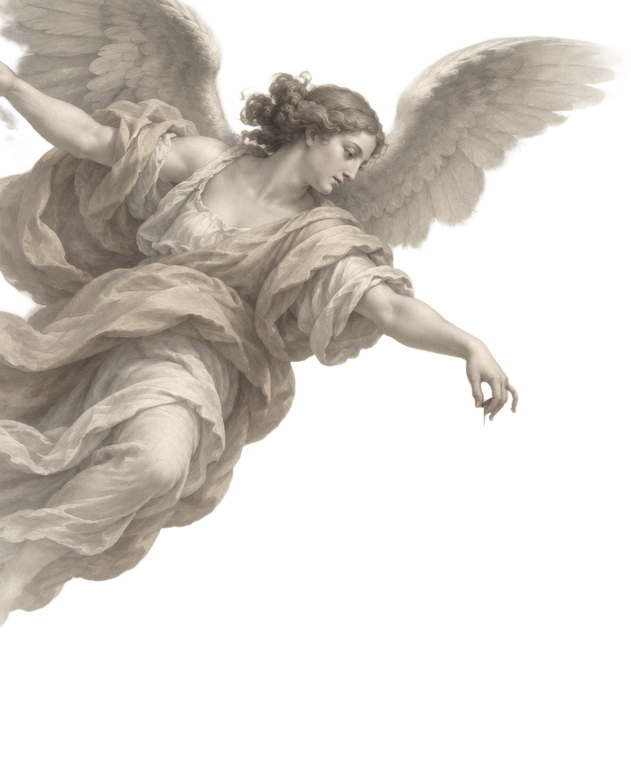
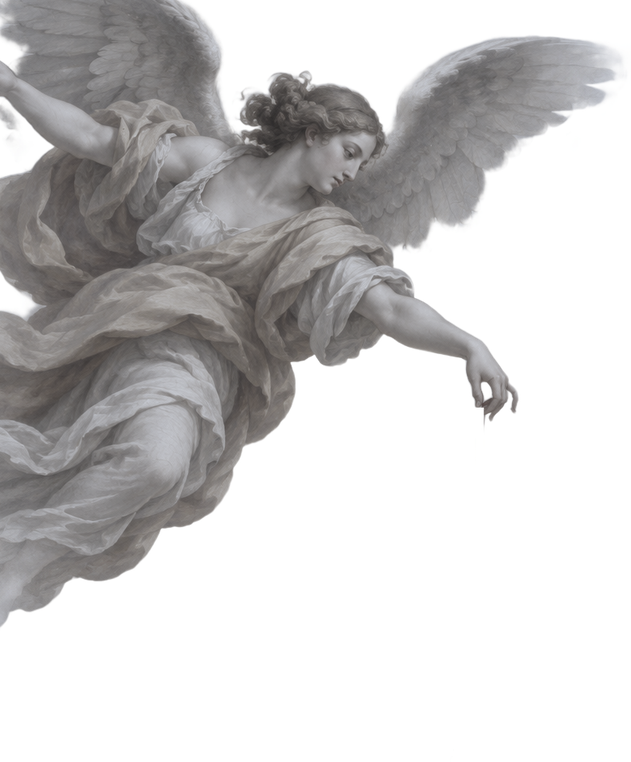
Night landing with white text; landing text part of the painting layer
- The landing text lives in the painting layer, so the opening frame
  uncovers it in place instead of fading it in.
- Night grade for the aerial landscape (motion/make_night.py), moonlit
  mist and a slightly dimmed angel; the lantern is the warm light.
- Landing text is white with a dark haze for contrast; "before" takes
  the lantern's amber.
- Opening top bar: Apply is now Contact.

Claude-Session: https://claude.ai/code/session_01VMC75dovcyg8xHeWok5tKD

diff --git a/assets/hero-motion.js b/assets/hero-motion.js
@@ -1,1 +1,1 @@
-"use strict";(()=>{var x={W:1960,H:1225,pivot:[479.64772727272725,402.4636363636364],lanternCenter:[479.64772727272725,564.1715909090909],lanternR:86.03181818181818,angelBox:[0,0,631,762],lanternBox:[393,402,566,769]};var J=60,k=3.5,u=8,S=x.W,N=x.H,R={x:x.pivot[0],y:x.pivot[1]},c={x:x.lanternCenter[0],y:x.lanternCenter[1],r:x.lanternR},[F,H,K,Q]=x.angelBox,[B,G,Z,tt]=x.lanternBox,j=Math.PI*2,q=36,O=5,p=(t,n,a=0)=>Math.sin(j*t/n+a),_=t=>(t%1+1)%1,C=t=>Math.min(1,Math.max(0,t)),nt=t=>t,et=t=>t<.5?2*t*t:1-Math.pow(-2*t+2,2)/2,rt=t=>t<.5?4*t*t*t:1-Math.pow(-2*t+2,3)/2,ot=(t,n,a,r)=>{let o=3*t,y=3*(a-t)-o,E=1-o-y,f=3*n,d=3*(r-n)-f,b=1-f-d,$=m=>((E*m+y)*m+o)*m;return m=>{let i=m;for(let e=0;e<8;e++){let g=(3*E*i+2*y)*i+o;if(Math.abs(g)<1e-6)break;i-=($(i)-m)/g}return i=C(i),((b*i+d)*i+f)*i}},W=ot(.16,1,.3,1),v=(t,n,a,r=nt)=>{if(t<=n[0])return a[0];for(let o=1;o<n.length;o++)if(t<=n[o])return a[o-1]+(a[o]-a[o-1])*r((t-n[o-1])/(n[o]-n[o-1]));return a[a.length-1]},T=t=>{let n=2166136261;for(let a=0;a<t.length;a++)n=Math.imul(n^t.charCodeAt(a),16777619);return n=Math.imul(n^n>>>15,2246822507),n=Math.imul(n^n>>>13,3266489909),((n^n>>>16)>>>0)/4294967296},at=t=>{let n=8+T(`s${t}`)*16;return{id:`mote${t}`,src:"mote.png",x:0,y:0,w:n,h:n}},z=[{id:"sky",src:"sky.jpg",x:0,y:0,w:S,h:N,origin:`${S*.3}px ${N*.4}px`},{id:"angelGroup",x:0,y:0,w:S,h:N,origin:"300px 380px",children:[{id:"angel",src:"angel.png",x:F,y:H,w:K-F,h:Q-H},{id:"swing",x:0,y:0,w:S,h:N,origin:`${R.x}px ${R.y}px`,children:[{id:"glowOuter",src:"glow.png",x:c.x-c.r*3.6,y:c.y-c.r*3.6,w:c.r*7.2,h:c.r*7.2},{id:"lantern",src:"lantern.png",x:B,y:G,w:Z-B,h:tt-G},{id:"glowInner",src:"glow.png",x:c.x-c.r*1.1,y:c.y-c.r,w:c.r*2.2,h:c.r*2.2}]}]},{id:"rays",src:"rays.png",x:-220,y:-280,w:1700,h:1700,origin:"0 0"},...Array.from({length:q},(t,n)=>at(n)),...Array.from({length:O},(t,n)=>({id:`mist${n}`,src:"mist.png",x:0,y:0,w:1200,h:420})),{id:"curtainL",src:"mist.png",x:0,y:0,w:2400,h:1400},{id:"curtainR",src:"mist.png",x:0,y:0,w:2400,h:1400}],X=["sky.jpg","angel.png","glow.png","lantern.png","rays.png","mote.png","mist.png"],st={enter:1,ignite:1,extraSwing:0,skyScale:1,rays:1,curtain:0},it=t=>{let n=Math.min(1,t/(k-1/J));return{enter:v(t,[.15,2.8],[0,1],W),ignite:v(t,[1.9,2.4,3.4],[0,1.45,1],et),extraSwing:15*Math.pow(1-n,2)*Math.sin(n*Math.PI*4),skyScale:v(t,[0,3.5],[1.1,1],W),rays:v(t,[1.2,3.2],[0,1]),curtain:v(t,[0,1.8],[1,0],rt)}},Y=(t,n)=>{let a=t<k?it(t):st,r=t<k?t-k:(t-k)%u,{enter:o,ignite:y,extraSwing:E,skyScale:f,rays:d,curtain:b}=a,$=n===void 0?Math.min(y,1):C(n),m=16*p(r,u),i=8*p(r,u,Math.PI/2),e=.8*p(r,u,Math.PI/3),g=5*p(r,u/2,-.6)+.8*p(r,u/4,.9)+E,l=.78+.14*p(r,2)+.05*p(r,.5,1.3)+.04*p(r,1,.4),h=n===void 0?y>1?y-1:0:.5*Math.max(0,Math.sin(Math.PI*C((n-.55)/.45))),I=-160*(1-o),P=-560*(1-o),M={sky:{transform:`translate3d(${6*p(r,u)}px,${-3*p(r,u,1)}px,0) scale(${f})`,opacity:1},angelGroup:{transform:`translate3d(${I+i}px,${P+m}px,0) rotate(${e}deg)`,opacity:Math.min(1,o*1.6)},swing:{transform:`rotate(${g}deg)`,opacity:1},glowOuter:{transform:`scale(${1+.07*p(r,2)+h*.5})`,opacity:Math.min(1,l*$+h)},glowInner:{transform:"none",opacity:Math.max(0,(l-.2)*$)},rays:{transform:`rotate(${3*p(r,u,2)}deg)`,opacity:(.42+.16*p(r,u/2,.8))*d}};for(let s=0;s<q;s++){let w=_(r/u+T(`p${s}`)),L=c.x+i+(T(`x${s}`)-.5)*340+22*Math.sin(j*(w*2+T(`w${s}`))),U=c.y+m+120-w*(380+T(`h${s}`)*260);M[`mote${s}`]={transform:`translate3d(${L}px,${U}px,0)`,opacity:Math.sin(Math.PI*w)*(.45+T(`o${s}`)*.55)*$}}for(let s=0;s<O;s++){let w=_(r/u+s/O),L=-400+s*440+w*300*(s%2?-1:1);M[`mist${s}`]={transform:`translate3d(${L}px,${N-420+s%3*50}px,0)`,opacity:.75*Math.sin(Math.PI*w)}}return M.curtainL={transform:`translate3d(${-700-(1-b)*900}px,-60px,0)`,opacity:b},M.curtainR={transform:`translate3d(${260+(1-b)*900}px,-60px,0)`,opacity:b},M};var A=document.getElementById("hero-player"),ct="assets/motion/",D=t=>ct+t.replace(/\.png$/,".webp");if(A){let t=document.createElement("div");t.style.cssText=`position:absolute;left:0;top:0;width:${S}px;height:${N}px;transform-origin:0 0;background:#dfeaf4;overflow:hidden;contain:strict`;let n=new Map,a=new Map,r=(e,g)=>{var h;let l=e.src?Object.assign(document.createElement("img"),{src:D(e.src),alt:"",decoding:"async",draggable:!1}):document.createElement("div");l.style.cssText=`position:absolute;left:${e.x}px;top:${e.y}px;width:${e.w}px;height:${e.h}px;will-change:transform,opacity;`+(e.origin?`transform-origin:${e.origin};`:""),g.appendChild(l),n.set(e.id,l),(h=e.children)==null||h.forEach(I=>r(I,l))};z.forEach(e=>r(e,t)),A.appendChild(t);let o=()=>{t.style.transform=`scale(${A.clientWidth/S})`};new ResizeObserver(o).observe(A),o();let y=e=>{let g=window.LANTERN_LIGHT,l=Y(e,typeof g=="number"?g:void 0);for(let h in l){let I=n.get(h);if(!I)continue;let{transform:P,opacity:M}=l[h],s=M<.002?"0":M.toFixed(3),w=P+"|"+s;a.get(h)!==w&&(a.set(h,w),I.style.transform=P,I.style.opacity=s)}},E=0,f=0,d=0,b=!0,$=e=>{E+=Math.min(.1,(e-f)/1e3),f=e,y(E),d=requestAnimationFrame($)},m=()=>{let e=b&&!document.hidden;e&&!d&&(f=performance.now(),d=requestAnimationFrame($)),!e&&d&&(cancelAnimationFrame(d),d=0)};y(0);let i=X.map(e=>new Promise(g=>{let l=new Image;l.src=D(e),l.decode().then(()=>g(),()=>g())}));Promise.all(i).then(()=>{document.documentElement.classList.add("player-on"),new IntersectionObserver(e=>{b=e[0].isIntersecting,m()}).observe(A),document.addEventListener("visibilitychange",m),m()})}})();
+"use strict";(()=>{var x={W:1960,H:1225,pivot:[479.64772727272725,402.4636363636364],lanternCenter:[479.64772727272725,564.1715909090909],lanternR:86.03181818181818,angelBox:[0,0,631,762],lanternBox:[393,402,566,769]};var J=60,k=3.5,u=8,S=x.W,N=x.H,R={x:x.pivot[0],y:x.pivot[1]},c={x:x.lanternCenter[0],y:x.lanternCenter[1],r:x.lanternR},[F,H,K,Q]=x.angelBox,[B,G,Z,tt]=x.lanternBox,j=Math.PI*2,q=36,O=5,p=(t,n,a=0)=>Math.sin(j*t/n+a),_=t=>(t%1+1)%1,C=t=>Math.min(1,Math.max(0,t)),nt=t=>t,et=t=>t<.5?2*t*t:1-Math.pow(-2*t+2,2)/2,rt=t=>t<.5?4*t*t*t:1-Math.pow(-2*t+2,3)/2,ot=(t,n,a,r)=>{let o=3*t,d=3*(a-t)-o,E=1-o-d,f=3*n,y=3*(r-n)-f,b=1-f-y,$=m=>((E*m+d)*m+o)*m;return m=>{let i=m;for(let e=0;e<8;e++){let g=(3*E*i+2*d)*i+o;if(Math.abs(g)<1e-6)break;i-=($(i)-m)/g}return i=C(i),((b*i+y)*i+f)*i}},W=ot(.16,1,.3,1),v=(t,n,a,r=nt)=>{if(t<=n[0])return a[0];for(let o=1;o<n.length;o++)if(t<=n[o])return a[o-1]+(a[o]-a[o-1])*r((t-n[o-1])/(n[o]-n[o-1]));return a[a.length-1]},T=t=>{let n=2166136261;for(let a=0;a<t.length;a++)n=Math.imul(n^t.charCodeAt(a),16777619);return n=Math.imul(n^n>>>15,2246822507),n=Math.imul(n^n>>>13,3266489909),((n^n>>>16)>>>0)/4294967296},at=t=>{let n=8+T(`s${t}`)*16;return{id:`mote${t}`,src:"mote.png",x:0,y:0,w:n,h:n}},z=[{id:"sky",src:"sky.jpg",x:0,y:0,w:S,h:N,origin:`${S*.3}px ${N*.4}px`},{id:"angelGroup",x:0,y:0,w:S,h:N,origin:"300px 380px",children:[{id:"angel",src:"angel.png",x:F,y:H,w:K-F,h:Q-H},{id:"swing",x:0,y:0,w:S,h:N,origin:`${R.x}px ${R.y}px`,children:[{id:"glowOuter",src:"glow.png",x:c.x-c.r*3.6,y:c.y-c.r*3.6,w:c.r*7.2,h:c.r*7.2},{id:"lantern",src:"lantern.png",x:B,y:G,w:Z-B,h:tt-G},{id:"glowInner",src:"glow.png",x:c.x-c.r*1.1,y:c.y-c.r,w:c.r*2.2,h:c.r*2.2}]}]},{id:"rays",src:"rays.png",x:-220,y:-280,w:1700,h:1700,origin:"0 0"},...Array.from({length:q},(t,n)=>at(n)),...Array.from({length:O},(t,n)=>({id:`mist${n}`,src:"mist.png",x:0,y:0,w:1200,h:420})),{id:"curtainL",src:"mist.png",x:0,y:0,w:2400,h:1400},{id:"curtainR",src:"mist.png",x:0,y:0,w:2400,h:1400}],X=["sky.jpg","angel.png","glow.png","lantern.png","rays.png","mote.png","mist.png"],st={enter:1,ignite:1,extraSwing:0,skyScale:1,rays:1,curtain:0},it=t=>{let n=Math.min(1,t/(k-1/J));return{enter:v(t,[.15,2.8],[0,1],W),ignite:v(t,[1.9,2.4,3.4],[0,1.45,1],et),extraSwing:15*Math.pow(1-n,2)*Math.sin(n*Math.PI*4),skyScale:v(t,[0,3.5],[1.1,1],W),rays:v(t,[1.2,3.2],[0,1]),curtain:v(t,[0,1.8],[1,0],rt)}},Y=(t,n)=>{let a=t<k?it(t):st,r=t<k?t-k:(t-k)%u,{enter:o,ignite:d,extraSwing:E,skyScale:f,rays:y,curtain:b}=a,$=n===void 0?Math.min(d,1):C(n),m=16*p(r,u),i=8*p(r,u,Math.PI/2),e=.8*p(r,u,Math.PI/3),g=5*p(r,u/2,-.6)+.8*p(r,u/4,.9)+E,l=.78+.14*p(r,2)+.05*p(r,.5,1.3)+.04*p(r,1,.4),h=n===void 0?d>1?d-1:0:.5*Math.max(0,Math.sin(Math.PI*C((n-.55)/.45))),I=-160*(1-o),P=-560*(1-o),M={sky:{transform:`translate3d(${6*p(r,u)}px,${-3*p(r,u,1)}px,0) scale(${f})`,opacity:1},angelGroup:{transform:`translate3d(${I+i}px,${P+m}px,0) rotate(${e}deg)`,opacity:Math.min(1,o*1.6)},swing:{transform:`rotate(${g}deg)`,opacity:1},glowOuter:{transform:`scale(${1+.07*p(r,2)+h*.5})`,opacity:Math.min(1,l*$+h)},glowInner:{transform:"none",opacity:Math.max(0,(l-.2)*$)},rays:{transform:`rotate(${3*p(r,u,2)}deg)`,opacity:(.42+.16*p(r,u/2,.8))*y}};for(let s=0;s<q;s++){let w=_(r/u+T(`p${s}`)),L=c.x+i+(T(`x${s}`)-.5)*340+22*Math.sin(j*(w*2+T(`w${s}`))),U=c.y+m+120-w*(380+T(`h${s}`)*260);M[`mote${s}`]={transform:`translate3d(${L}px,${U}px,0)`,opacity:Math.sin(Math.PI*w)*(.45+T(`o${s}`)*.55)*$}}for(let s=0;s<O;s++){let w=_(r/u+s/O),L=-400+s*440+w*300*(s%2?-1:1);M[`mist${s}`]={transform:`translate3d(${L}px,${N-420+s%3*50}px,0)`,opacity:.75*Math.sin(Math.PI*w)}}return M.curtainL={transform:`translate3d(${-700-(1-b)*900}px,-60px,0)`,opacity:b},M.curtainR={transform:`translate3d(${260+(1-b)*900}px,-60px,0)`,opacity:b},M};var A=document.getElementById("hero-player"),ct="assets/motion/",D=t=>ct+t.replace(/\.png$/,".webp");if(A){let t=document.createElement("div");t.style.cssText=`position:absolute;left:0;top:0;width:${S}px;height:${N}px;transform-origin:0 0;background:#1b2840;overflow:hidden;contain:strict`;let n=new Map,a=new Map,r=(e,g)=>{var h;let l=e.src?Object.assign(document.createElement("img"),{src:D(e.src),alt:"",decoding:"async",draggable:!1}):document.createElement("div");l.style.cssText=`position:absolute;left:${e.x}px;top:${e.y}px;width:${e.w}px;height:${e.h}px;will-change:transform,opacity;`+(e.origin?`transform-origin:${e.origin};`:""),g.appendChild(l),n.set(e.id,l),(h=e.children)==null||h.forEach(I=>r(I,l))};z.forEach(e=>r(e,t)),A.appendChild(t);let o=()=>{t.style.transform=`scale(${A.clientWidth/S})`};new ResizeObserver(o).observe(A),o();let d=e=>{let g=window.LANTERN_LIGHT,l=Y(e,typeof g=="number"?g:void 0);for(let h in l){let I=n.get(h);if(!I)continue;let{transform:P,opacity:M}=l[h],s=M<.002?"0":M.toFixed(3),w=P+"|"+s;a.get(h)!==w&&(a.set(h,w),I.style.transform=P,I.style.opacity=s)}},E=0,f=0,y=0,b=!0,$=e=>{E+=Math.min(.1,(e-f)/1e3),f=e,d(E),y=requestAnimationFrame($)},m=()=>{let e=b&&!document.hidden;e&&!y&&(f=performance.now(),y=requestAnimationFrame($)),!e&&y&&(cancelAnimationFrame(y),y=0)};d(0);let i=X.map(e=>new Promise(g=>{let l=new Image;l.src=D(e),l.decode().then(()=>g(),()=>g())}));Promise.all(i).then(()=>{document.documentElement.classList.add("player-on"),new IntersectionObserver(e=>{b=e[0].isIntersecting,m()}).observe(A),document.addEventListener("visibilitychange",m),m()})}})();

diff --git a/index.html b/index.html
@@ -75,7 +75,7 @@ em.s { font-family: var(--serif); font-style: italic; font-weight: 400; letter-s
 
 /* ---------- Hero: the painting fills the first screen, then the clouds fade into white ---------- */
 .hero { position: relative; isolation: isolate; overflow: hidden; min-height: max(100svh, 640px); display: grid; grid-template-rows: auto 1fr auto; }
-.hero-bg { position: absolute; inset: 0; z-index: -1; container-type: size; background: #dfeaf4; }
+.hero-bg { position: absolute; inset: 0; z-index: -1; container-type: size; background: #1b2840; }
 /* The animation is 16:10; sized like object-fit: cover and anchored left, so the angel stays in view. */
 .hero-box { position: absolute; left: 0; width: max(100cqw, 160cqh); aspect-ratio: 16 / 10; max-width: none; top: calc((100cqh - max(100cqw, 160cqh) / 1.6) * .42); }
 .hero-box > * { position: absolute; inset: 0; width: 100%; height: 100%; max-width: none; }
@@ -88,8 +88,8 @@ em.s { font-family: var(--serif); font-style: italic; font-weight: 400; letter-s
   position: absolute; inset: 0; pointer-events: none;
   content: ""; position: absolute; inset: 0;
   background:
-    radial-gradient(ellipse 34% 30% at 58% 48%, rgba(255,255,255,.5), rgba(255,255,255,0) 100%),
-    linear-gradient(to bottom, rgba(255,255,255,0) 80%, rgba(255,255,255,.4) 100%);
+    radial-gradient(ellipse 36% 32% at 58% 48%, rgba(8,14,30,.42), rgba(8,14,30,0) 100%),
+    linear-gradient(to bottom, rgba(8,14,30,.25) 0%, rgba(8,14,30,0) 18%, rgba(8,14,30,0) 78%, rgba(8,14,30,.45) 100%);
 }
 
 .hero-mark { display: grid; justify-items: center; gap: 8px; padding-top: max(28px, env(safe-area-inset-top, 0px)); text-align: center; text-decoration: none; }
@@ -165,18 +165,17 @@ form.signup { display: flex; width: min(460px, 100%); padding: 0; gap: 0; backgr
 }
 
 /* landing text: arrives once the frame has opened */
-.hero.motion:not(.open) .hero-mark, .hero.motion:not(.open) .hero-main > *, .hero.motion:not(.open) .hero-foot > * { opacity: 0; transform: translateY(16px); pointer-events: none; }
-.hero.motion .hero-mark, .hero.motion .hero-main > *, .hero.motion .hero-foot > * { transition: opacity .9s cubic-bezier(.2,.7,.2,1), transform .9s cubic-bezier(.2,.7,.2,1); }
-.hero.motion .hero-main > :nth-child(1) { transition-delay: .1s; }
-.hero.motion .hero-main > :nth-child(2) { transition-delay: .25s; }
-.hero.motion .hero-main > :nth-child(3) { transition-delay: .3s; }
-.hero.motion .hero-main > :nth-child(4) { transition-delay: .4s; }
-.hero.motion .hero-foot > * { transition-delay: .55s; }
+/* landing text lives in the painting layer: the opening frame uncovers it in place */
+.hero-layer { position: absolute; inset: 0; display: grid; grid-template-rows: auto 1fr auto; will-change: transform; color: #F6F1E7; text-shadow: 0 1px 18px rgba(5,10,24,.35); }
+.hero-layer a { color: inherit; }
+.hero-layer .hero-rule { background: #F6F1E7; }
+.hero-layer .scroll-cue::after { background: linear-gradient(#F6F1E7, transparent); }
+.hero-layer h1 em.s { color: #F2B36A; }
 @keyframes rise { from { opacity: 0; transform: translateY(16px); filter: blur(6px); } to { opacity: 1; transform: none; filter: none; } }
 
 @media (max-width: 899px) {
   .hero-box { width: max(230cqw, 160cqh); left: -14cqw; top: 0; }
-  .hero-tint { background: linear-gradient(to bottom, rgba(255,255,255,0) 38%, rgba(255,255,255,.55) 58%, rgba(255,255,255,.62) 100%); }
+  .hero-tint { background: linear-gradient(to bottom, rgba(8,14,30,.2) 0%, rgba(8,14,30,0) 20%, rgba(8,14,30,0) 40%, rgba(8,14,30,.5) 60%, rgba(8,14,30,.6) 100%); }
   .hero-main { place-content: end center; padding-block: 44svh 24px; }
   .hero-foot { grid-template-columns: 1fr; justify-items: center; }
   .hero-foot .l, .hero-foot .r { display: none; }
@@ -316,13 +315,28 @@ input:focus, textarea:focus { outline: none; border-color: var(--ink); }
 <main id="top">
   <div class="stage">
   <section class="hero" aria-labelledby="hero-title">
-    <div class="hero-bg" aria-hidden="true">
-      <div class="hero-box">
+    <div class="hero-bg">
+      <div class="hero-box" aria-hidden="true">
         <img class="hero-poster" src="assets/motion/sky.jpg" width="1960" height="1225" alt="">
         <img class="hero-still" src="assets/angel-hero.jpg" width="1920" height="1200" alt="">
         <div class="hero-player" id="hero-player"></div>
       </div>
-      <div class="hero-tint"></div>
+      <div class="hero-tint" aria-hidden="true"></div>
+      <div class="hero-layer">
+        <a class="hero-mark wrap" href="#top" aria-label="Lantern Ventures, Fund 00"><b>LANTERN</b><span>Ventures · Fund 00</span></a>
+
+        <div class="hero-main wrap">
+          <h1 id="hero-title">We back founders <em class="s">before</em> anyone else is looking.</h1>
+          <span class="hero-rule" aria-hidden="true"></span>
+          <p class="hero-meta">Pre-seed · Student-run · 11 cities</p>
+        </div>
+
+        <div class="hero-foot wrap">
+          <span class="l">Boston · New York · London · Pittsburgh · Hong Kong</span>
+          <a class="scroll-cue" href="#connect">Scroll</a>
+          <span class="r">Fig. I &nbsp;<i>The Lantern Bearer</i></span>
+        </div>
+      </div>
     </div>
 
     <div class="portal" aria-hidden="true">
@@ -355,26 +369,13 @@ input:focus, textarea:focus { outline: none; border-color: var(--ink); }
       <svg class="portal-rays" viewBox="0 0 100 100"><line x1="50" y1="0" x2="50" y2="9" transform="rotate(0 50 50)"></line><line x1="50" y1="0" x2="50" y2="9" transform="rotate(15 50 50)"></line><line x1="50" y1="0" x2="50" y2="9" transform="rotate(30 50 50)"></line><line x1="50" y1="0" x2="50" y2="9" transform="rotate(45 50 50)"></line><line x1="50" y1="0" x2="50" y2="9" transform="rotate(60 50 50)"></line><line x1="50" y1="0" x2="50" y2="9" transform="rotate(75 50 50)"></line><line x1="50" y1="0" x2="50" y2="9" transform="rotate(90 50 50)"></line><line x1="50" y1="0" x2="50" y2="9" transform="rotate(105 50 50)"></line><line x1="50" y1="0" x2="50" y2="9" transform="rotate(120 50 50)"></line><line x1="50" y1="0" x2="50" y2="9" transform="rotate(135 50 50)"></line><line x1="50" y1="0" x2="50" y2="9" transform="rotate(150 50 50)"></line><line x1="50" y1="0" x2="50" y2="9" transform="rotate(165 50 50)"></line><line x1="50" y1="0" x2="50" y2="9" transform="rotate(180 50 50)"></line><line x1="50" y1="0" x2="50" y2="9" transform="rotate(195 50 50)"></line><line x1="50" y1="0" x2="50" y2="9" transform="rotate(210 50 50)"></line><line x1="50" y1="0" x2="50" y2="9" transform="rotate(225 50 50)"></line><line x1="50" y1="0" x2="50" y2="9" transform="rotate(240 50 50)"></line><line x1="50" y1="0" x2="50" y2="9" transform="rotate(255 50 50)"></line><line x1="50" y1="0" x2="50" y2="9" transform="rotate(270 50 50)"></line><line x1="50" y1="0" x2="50" y2="9" transform="rotate(285 50 50)"></line><line x1="50" y1="0" x2="50" y2="9" transform="rotate(300 50 50)"></line><line x1="50" y1="0" x2="50" y2="9" transform="rotate(315 50 50)"></line><line x1="50" y1="0" x2="50" y2="9" transform="rotate(330 50 50)"></line><line x1="50" y1="0" x2="50" y2="9" transform="rotate(345 50 50)"></line></svg>
       <i class="portal-edge h"></i><i class="portal-edge h"></i><i class="portal-edge v"></i><i class="portal-edge v"></i>
       <div class="portal-text">
-        <div class="portal-top wrap"><b>LANTERN</b><a href="#connect" tabindex="-1">Apply</a></div>
+        <div class="portal-top wrap"><b>LANTERN</b><a href="#connect" tabindex="-1">Contact</a></div>
         <p class="portal-title">Introducing<br> Lantern</p>
         <div class="portal-side"><span>Fund 00 [Winter ’26]</span><p>The global network to kickstart your new company from scratch.</p></div>
         <div class="portal-cue">Scroll to enter</div>
       </div>
     </div>
 
-    <a class="hero-mark wrap" href="#top" aria-label="Lantern Ventures, Fund 00"><b>LANTERN</b><span>Ventures · Fund 00</span></a>
-
-    <div class="hero-main wrap">
-      <h1 id="hero-title">We back founders <em class="s">before</em> anyone else is looking.</h1>
-      <span class="hero-rule" aria-hidden="true"></span>
-      <p class="hero-meta">Pre-seed · Student-run · 11 cities</p>
-    </div>
-
-    <div class="hero-foot wrap">
-      <span class="l">Boston · New York · London · Pittsburgh · Hong Kong</span>
-      <a class="scroll-cue" href="#connect">Scroll</a>
-      <span class="r">Fig. I &nbsp;<i>The Lantern Bearer</i></span>
-    </div>
   </section>
   </div>
 
@@ -417,7 +418,7 @@ input:focus, textarea:focus { outline: none; border-color: var(--ink); }
   // the background layer is scaled down to the frame and its contents are scaled back up.
   function portalScroll(hero) {
     var stage = hero.parentElement, bg = hero.querySelector(".hero-bg"), box = hero.querySelector(".hero-box");
-    var tint = hero.querySelector(".hero-tint"), portal = hero.querySelector(".portal");
+    var tint = hero.querySelector(".hero-tint"), layer = hero.querySelector(".hero-layer"), portal = hero.querySelector(".portal");
     var edges = hero.querySelectorAll(".portal-edge"), words = hero.querySelector(".portal-text");
     stage.classList.add("portal-on");
     window.LANTERN_LIGHT = 0; // unlit until you scroll
@@ -451,6 +452,8 @@ input:focus, textarea:focus { outline: none; border-color: var(--ink); }
       var dx = (vw / 2 - bl - ox) * (1 - e), dy = (vh / 2 - bt - oy) * (1 - e);
       box.style.transform = "translate(" + cx + "px," + cy + "px) scale(" + 1 / sx + "," + 1 / sy + ") translate(" + (-cx + dx + ox) + "px," + (-cy + dy + oy) + "px) scale(" + sc + ") translate(" + -ox + "px," + -oy + "px)";
       tint.style.opacity = e;
+      layer.style.transform = "scale(" + 1 / sx + "," + 1 / sy + ")";
+      layer.style.opacity = Math.min(1, Math.max(0, (e - 0.02) / 0.16)); // closed frame shows only the painting
       window.LANTERN_LIGHT = Math.min(1, e / 0.75);
       // frame outline: four hairlines that slide out with the window
       var t = (vh - H) / 2, l = (vw - W) / 2;
@@ -461,7 +464,6 @@ input:focus, textarea:focus { outline: none; border-color: var(--ink); }
       portal.style.opacity = Math.max(0, 1 - e * 1.8);
       words.style.opacity = Math.max(0, 1 - e * 5); // the opening's words leave first
       portal.style.visibility = e >= 0.99 ? "hidden" : "visible";
-      hero.classList.toggle("open", e > 0.5); // landing words arrive halfway through the opening
     }
     var queue = function () { if (!queued) { queued = true; requestAnimationFrame(update); } };
     addEventListener("scroll", queue, { passive: true });

diff --git a/motion/src/Scene.tsx b/motion/src/Scene.tsx
@@ -24,7 +24,7 @@ const Layer: React.FC<{ node: Node; frame: Frame }> = ({ node, frame }) => {
 const Scene: React.FC<{ elapsed: number }> = ({ elapsed }) => {
   const frame = sample(elapsed);
   return (
-    <AbsoluteFill style={{ background: "#dfeaf4", overflow: "hidden" }}>
+    <AbsoluteFill style={{ background: "#1b2840", overflow: "hidden" }}>
       <div style={{ position: "absolute", width: CW, transform: `scale(${1920 / CW})`, transformOrigin: "0 0" }}>
         {SCENE.map((n) => <Layer key={n.id} node={n} frame={frame} />)}
       </div>

diff --git a/motion/src/web.ts b/motion/src/web.ts
@@ -9,7 +9,7 @@ const file = (n: string) => BASE + n.replace(/\.png$/, ".webp");
 
 if (mount) {
   const stage = document.createElement("div");
-  stage.style.cssText = `position:absolute;left:0;top:0;width:${CW}px;height:${CH}px;transform-origin:0 0;background:#dfeaf4;overflow:hidden;contain:strict`;
+  stage.style.cssText = `position:absolute;left:0;top:0;width:${CW}px;height:${CH}px;transform-origin:0 0;background:#1b2840;overflow:hidden;contain:strict`;
   const els = new Map<string, HTMLElement>();
   const last = new Map<string, string>();
 

diff --git a/motion/make_night.py b/motion/make_night.py
@@ -1,0 +1,29 @@
+# Grades the aerial landscape (landscape-source.png) to a moonlit night and writes sky.jpg,
+# plus night versions of the mist and a slightly dimmed angel so she sits in the scene.
+# Usage: python3 make_night.py public   (run after make_angel.py; then make_fx.py crops)
+import sys
+import numpy as np
+from PIL import Image, ImageFilter
+D = sys.argv[1]
+src = Image.open(f"{D}/landscape-source.png").convert("RGB")
+W, H = src.size; cw = round(H * 1.6); x0 = (W - cw) // 2
+img = src.crop((x0, 0, x0 + cw, H)).resize((1960, 1225), Image.LANCZOS).filter(ImageFilter.UnsharpMask(radius=2, percent=40, threshold=2))
+a = np.array(img).astype(np.float32) / 255
+lum = 0.30 * a[..., 0] + 0.59 * a[..., 1] + 0.11 * a[..., 2]
+night = np.stack([lum * 0.40, lum * 0.52, lum * 0.78], -1) * 0.55 + a * np.array([0.22, 0.27, 0.36]) * 0.45
+night = np.power(np.clip(night, 0, 1), 1.12) * 1.15
+y = np.linspace(0, 1, 1225)[:, None, None]
+night *= 0.82 + 0.18 * (1 - np.abs(y - 0.45) * 1.4)          # a touch darker at the top and bottom
+Image.fromarray((np.clip(night, 0, 1) * 255).astype(np.uint8)).save(f"{D}/sky.jpg", quality=92)
+
+# moonlit mist instead of white fog
+m = np.array(Image.open(f"{D}/mist.png").convert("RGBA")).astype(np.float32)
+m[..., 0], m[..., 1], m[..., 2] = 150, 172, 205
+m[..., 3] *= 0.7
+Image.fromarray(m.astype(np.uint8)).save(f"{D}/mist.png")
+
+# angel: a little dimmer and cooler, so she belongs to the night (the lantern still lights her)
+ang = np.array(Image.open(f"{D}/angel-full.png").convert("RGBA")).astype(np.float32)
+ang[..., :3] *= np.array([0.80, 0.84, 0.92])
+Image.fromarray(np.clip(ang, 0, 255).astype(np.uint8)).save(f"{D}/angel-full.png")
+print("night written")

diff --git a/README.md b/README.md
@@ -31,6 +31,6 @@ npm run build:web   # rebuild assets/hero-motion.js for the website
 npm run render      # optional: export MP4 + WebM versions (e.g. for social posts)
 ```
 
-The background (`motion/public/sky.jpg`) is an AI-generated aerial landscape (source `landscape-source.png`). Earlier skies are kept as `sky-clouds.jpg` and `sky-warm.jpg`. The angel layer comes from a background-removed cutout (`angel-cutout.png`) via `make_angel.py`, which removes the lantern and tones her robes white.
+The background (`motion/public/sky.jpg`) is an AI-generated aerial landscape (source `landscape-source.png`). Earlier skies are kept as `sky-clouds.jpg` and `sky-warm.jpg`. The angel layer comes from a background-removed cutout (`angel-cutout.png`) via `make_angel.py` (removes the lantern, tones her robes white). Rebuild order: `make_angel.py`, `make_fx.py`, then `make_night.py` (night grade for the landscape, mist and angel).
 
 Layers are in `motion/public/` (sky, the angel without her lantern, the lantern, light effects). The motion is defined once in `motion/src/motion.ts`; `Scene.tsx` shows it in Remotion and `web.ts` plays it on the site.
